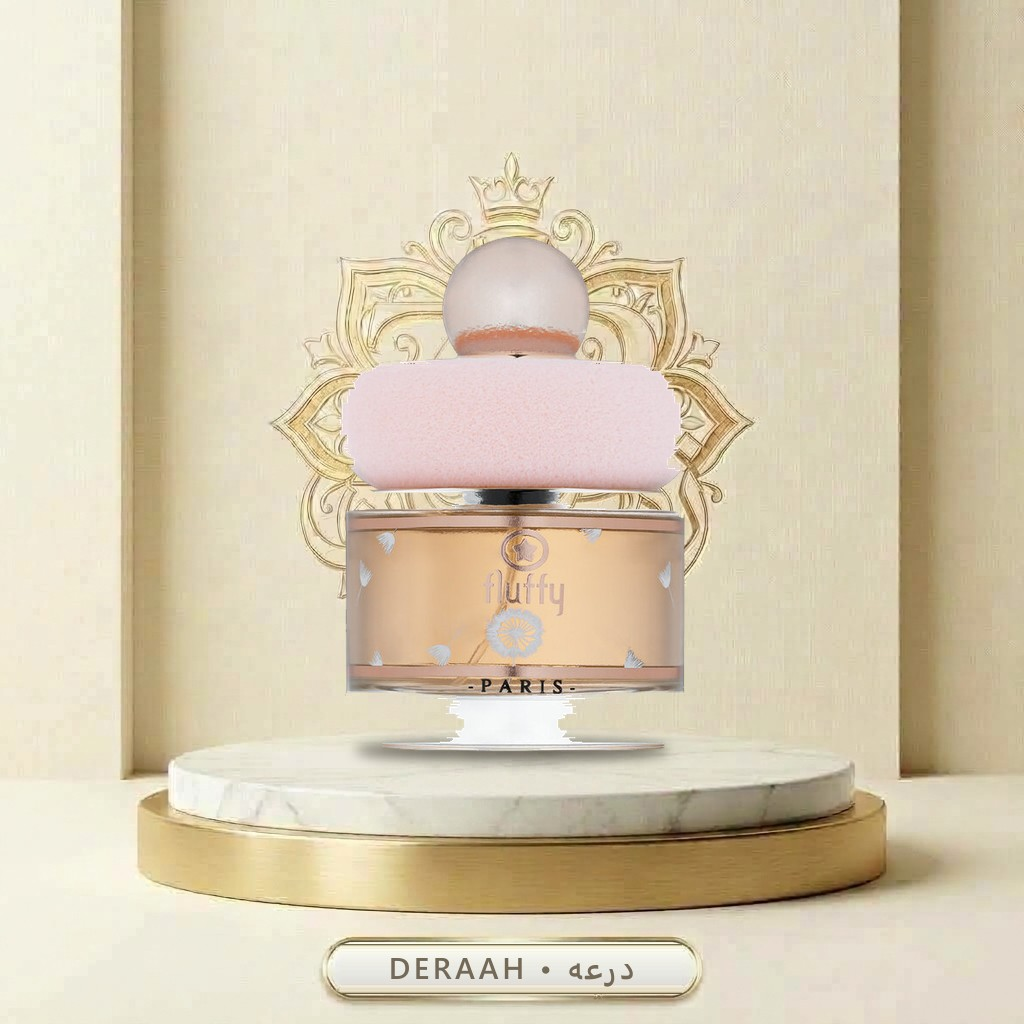
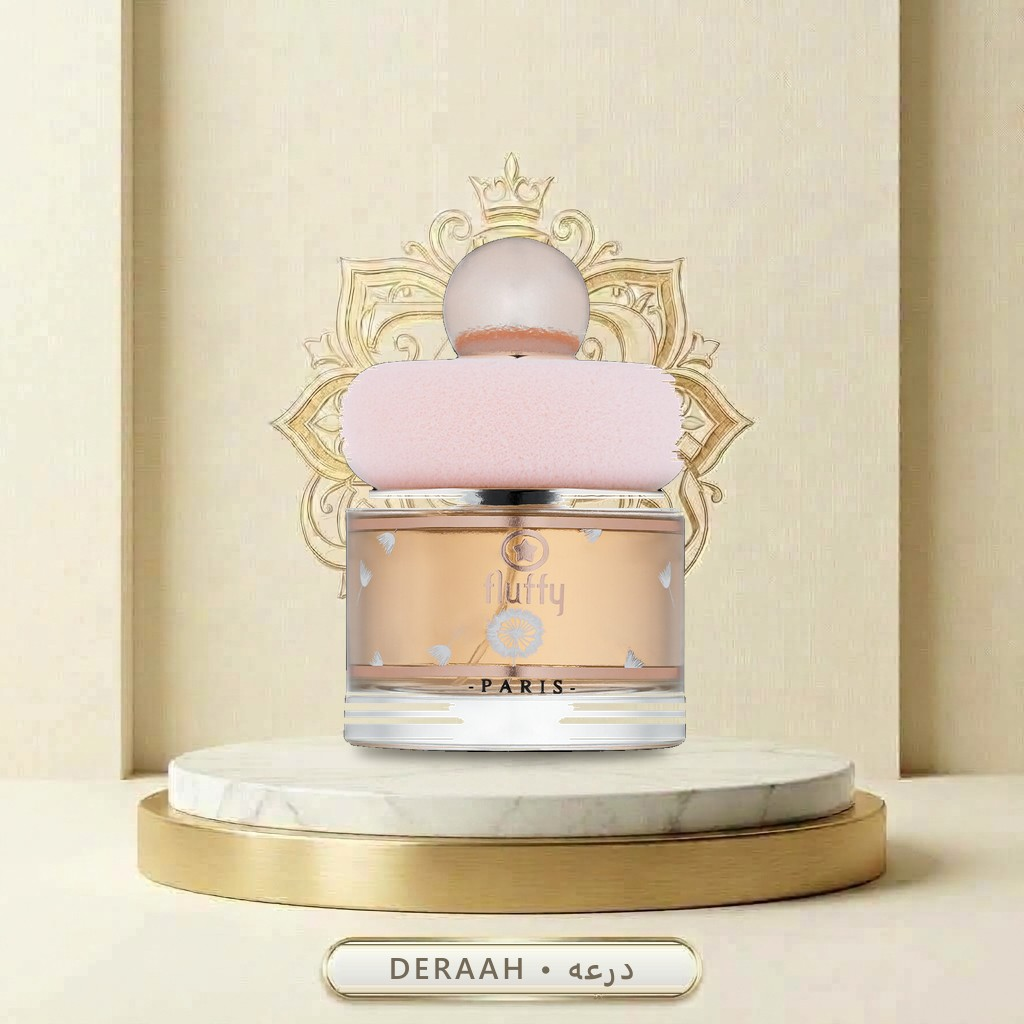
Le Mayous on the template; cleaner Fluffy and Sweet Man
- New cutoutWhiteBackdrop flag: on pure-white studio shots every
  non-white pixel joins the bottle, so frosted blocks and clear glass
  bases the model dropped are kept
- Le Mayous: the frosted block is part of the bottle, not a box; now on
  the template from Deraah's angled photo
- Fluffy: clear glass base kept, so it sits on the podium
- Sweet Man 100/150 ml: ragged right edge fixed

Claude-Session: https://claude.ai/code/session_01STVvvRzREoL5Wd8ZBCeqVE

diff --git a/tools/images/render.py b/tools/images/render.py
@@ -276,13 +276,24 @@ def keep_largest(alpha):
 
 def cutout(img, mirror=False, solid=False, mirror_fill_=False, body_clip=None, largest=False,
            trim_bottom=None, trim_top=None, straight_left=False, model=None,
-           cap_clip=None):
+           cap_clip=None, white_backdrop=False):
     from rembg import remove
     img.thumbnail((1200, 1200), Image.LANCZOS)
     rgb = flatten(img)
     cut = remove(rgb, session=session(model) if model else session())
     arr = np.asarray(cut)
     alpha = clean_alpha(arr[..., 3])
+    if white_backdrop:
+        # Studio shot on pure white: frosted or white parts the model drops
+        # are still slightly off-white, so take every non-white pixel too.
+        src = np.asarray(rgb, dtype=np.float32)
+        ink = ndimage.binary_opening(src.min(axis=2) < 246, iterations=1)
+        ink = ndimage.binary_fill_holes(ndimage.binary_closing(ink, iterations=3))
+        labels, n = ndimage.label(ink)
+        if n:
+            sizes = ndimage.sum(ink, labels, range(1, n + 1))
+            ink = labels == (int(np.argmax(sizes)) + 1)
+        alpha = np.maximum(alpha, ink.astype(np.float32) * 255)
     rows = np.where(alpha.max(axis=1) > 128)[0]
     if mirror:
         alpha = mirror_clip(alpha)
@@ -419,7 +430,8 @@ def showcase(item, house):
                        trim_top=item.get("cutoutTrimTop"),
                        straight_left=bool(item.get("cutoutStraightLeft")),
                        model=item.get("cutoutModel"),
-                       cap_clip=item.get("cutoutCapClip"))
+                       cap_clip=item.get("cutoutCapClip"),
+                       white_backdrop=bool(item.get("cutoutWhiteBackdrop")))
     bg = Image.open(IMAGES / HOUSES[house][2]).convert("RGBA").resize((SIZE, SIZE), Image.LANCZOS)
     scale = min(BOTTLE_BOX[0] / cut.width, BOTTLE_BOX[1] / cut.height)
     cut = cut.resize((max(1, round(cut.width * scale)), max(1, round(cut.height * scale))), Image.LANCZOS)

diff --git a/tools/images/README.md b/tools/images/README.md
@@ -36,6 +36,7 @@ Some photos need a hint in the catalog entry before rendering:
 - `cutoutModel: "birefnet-general"` uses the full (slower, ~12 GB RAM) model, which separates soft cast shadows the lite model keeps; render such items one per process.
 - `cutoutCapClip: 0.12` keeps only the cap width above that fraction of the height (drops a card standing behind the cap).
 - `cutoutRemoveCard: [top, bottom]` whitens a message card standing behind an egg-shaped cap (rows as fractions of the photo height); the cap outline there is extrapolated from below the card.
+- `cutoutWhiteBackdrop: true` for studio shots on pure white: every non-white pixel joins the bottle, so frosted or white parts the model drops are kept.
 - `cutoutCrop: [l, t, r, b]` crops the source photo (fractions) before the cutout, e.g. to leave out the box next to a bottle.
 
 After rendering, run `python tools/images/thumbs.py` to refresh the card thumbnails. Image URLs carry `?v=<content hash>` so browsers never show a cached older picture; `python tools/images/versions.py` re-syncs them after manual image edits.
